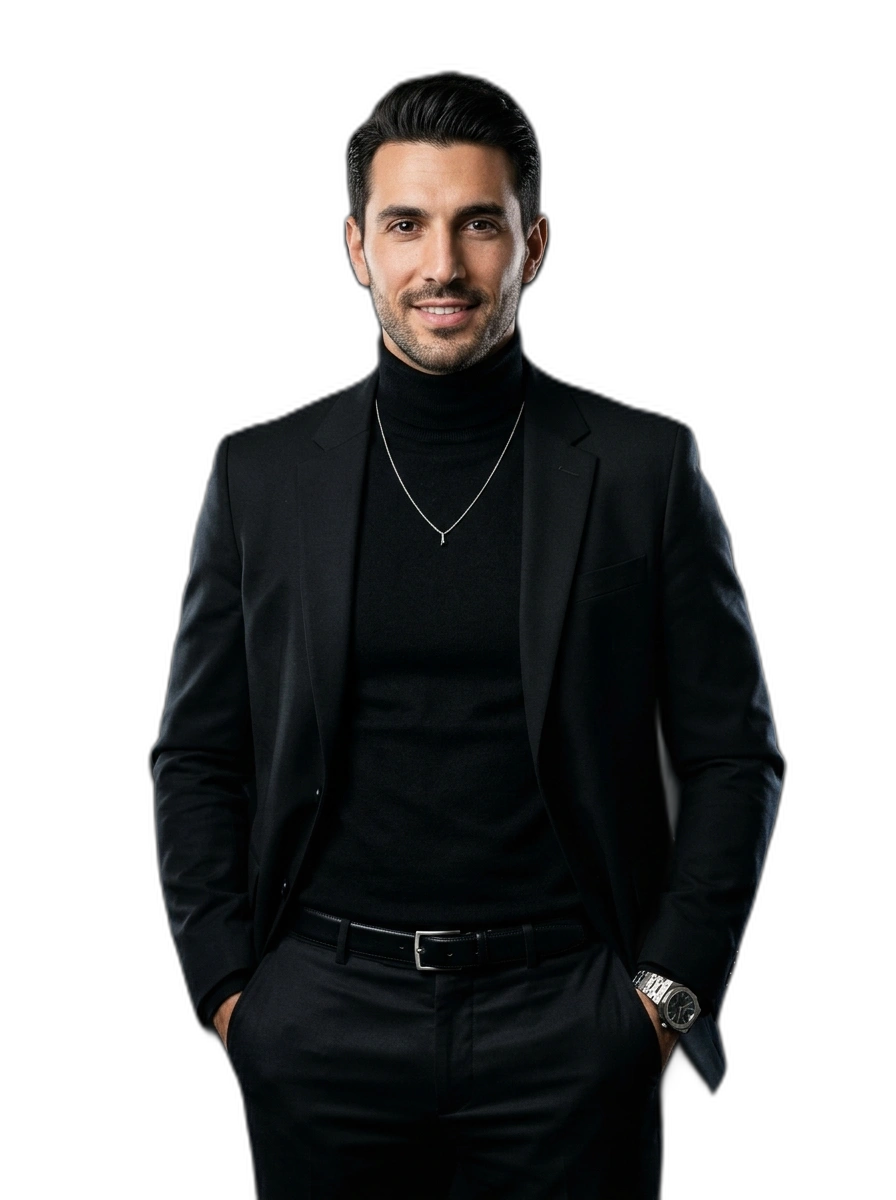
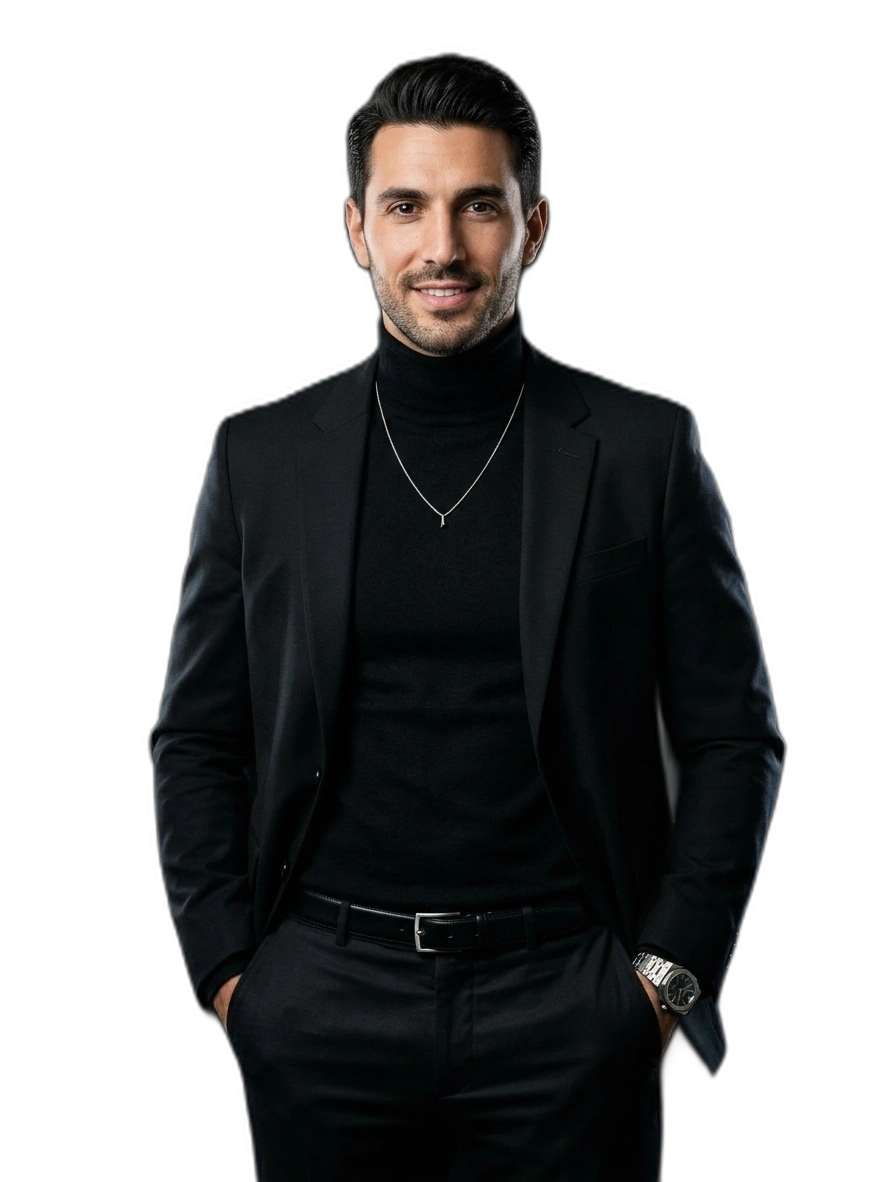
feat: add Marcus Vane high-end executive portfolio design system and assets

diff --git a/meridian-core/public/css/style.css b/meridian-core/public/css/style.css
@@ -139,17 +139,6 @@ body.bg-main {
   gap: 1.25rem;
 }
 
-.pl-monogram {
-  font-family: var(--font-display);
-  font-size: 1.5rem;
-  color: var(--accent);
-  background: rgba(255, 59, 29, 0.12);
-  border: 1px solid rgba(255, 59, 29, 0.3);
-  padding: 0.25rem 0.65rem;
-  border-radius: 2px;
-  letter-spacing: 0.05em;
-}
-
 .pl-brand-name {
   font-family: var(--font-display);
   font-size: clamp(1.2rem, 2.5vw, 2.2rem);
@@ -522,8 +511,8 @@ body.bg-main {
   bottom: 0;
   left: 50%;
   transform: translateX(-50%) scale(1.04);
-  width: clamp(340px, 36vw, 580px);
-  height: 86vh;
+  width: clamp(400px, 52vw, 840px);
+  height: 92vh;
   z-index: 20;
   pointer-events: none;
   opacity: 0;
@@ -547,7 +536,7 @@ body.bg-main {
   inset: 0;
   width: 100%;
   height: 100%;
-  object-fit: cover;
+  object-fit: contain;
   object-position: center bottom;
   pointer-events: auto;
   transition: filter 380ms ease;

diff --git a/meridian-core/public/index.html b/meridian-core/public/index.html
@@ -61,7 +61,6 @@
   <div id="cinematic-preloader" class="cinematic-preloader" aria-hidden="false">
     <div class="preloader-content">
       <div class="preloader-brand">
-        <span class="pl-monogram">MC</span>
         <span class="pl-brand-name">MERIDIAN CORE</span>
       </div>
       <div class="preloader-counter">
@@ -141,7 +140,7 @@
       <!-- Full-Height Cutout Founder Visual (Layered in Front) -->
       <div id="hero-portrait" class="hero-portrait">
         <figure class="liquid bare fill">
-          <img id="hero-portrait-img" src="/assets/images/founder-portrait.webp?v=2"
+          <img id="hero-portrait-img" src="/assets/images/founder-portrait.webp?v=4"
             alt="Julian Vance, Founder &amp; Managing Partner" class="portrait-media" loading="eager"
             style="filter: url(#liqHero);" />
         </figure>
